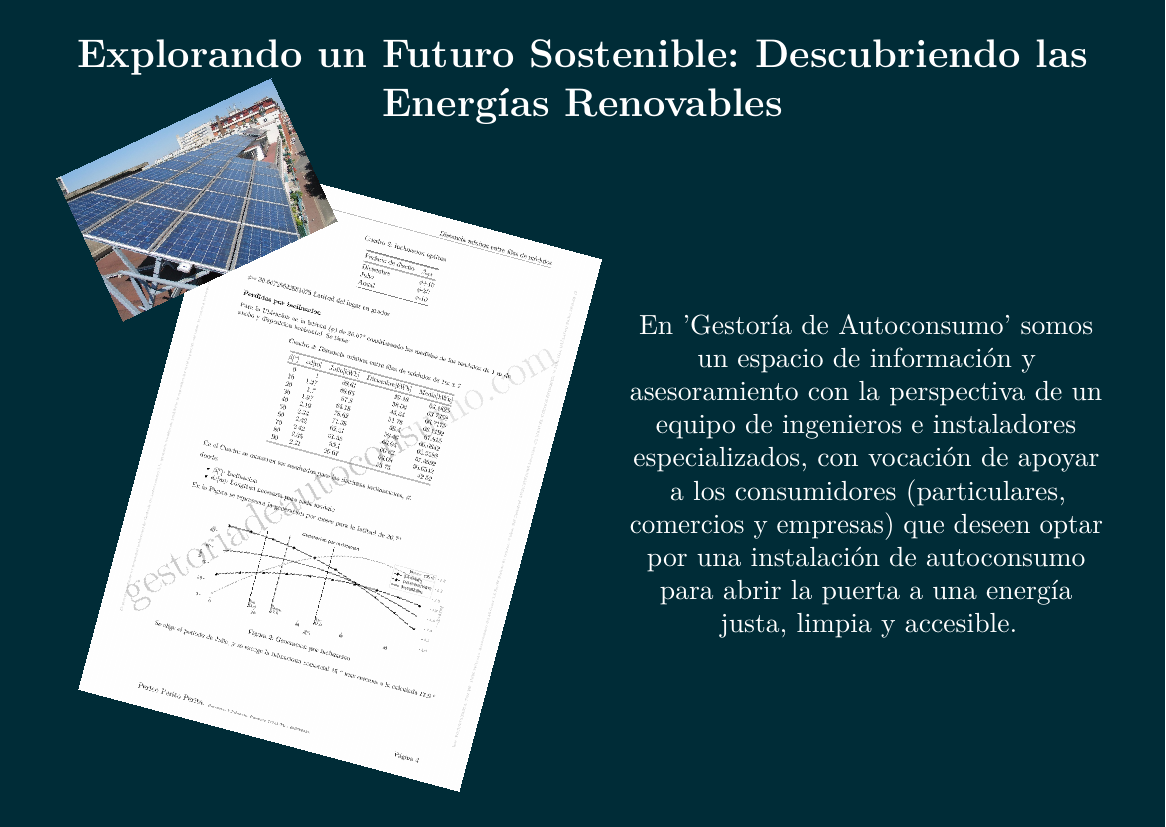
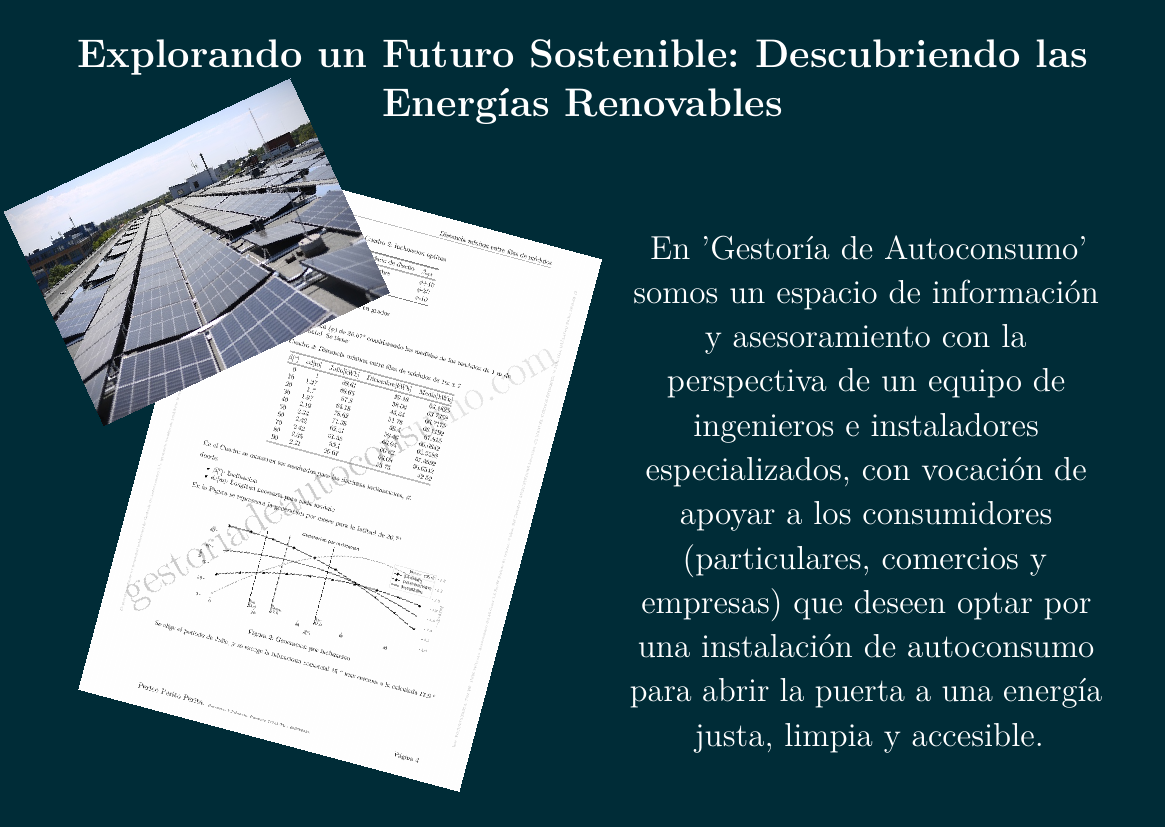
Deployed 0fbc552 with MkDocs version: 1.4.3

Changed region(s): [[0.5249, 0.2721, 0.9571, 0.8464], [0.0, 0.0907, 0.3396, 0.5139], [0.5866, 0.8767, 0.8954, 0.9069]]

diff --git a/index.html b/index.html
@@ -546,7 +546,8 @@
 
 
 <h1 id="_1"></h1>
-<p><img alt="" src="index_page_1.png" /></p>
+<p><img alt="" src="index_page_1.png" />
+<img alt="" src="index_page_2.png" /></p>
 <style> 
 body {
 background-image: url('https://github.com/asolear/assets/blob/master/imgs/fondo3.jpg?raw=true'); 
